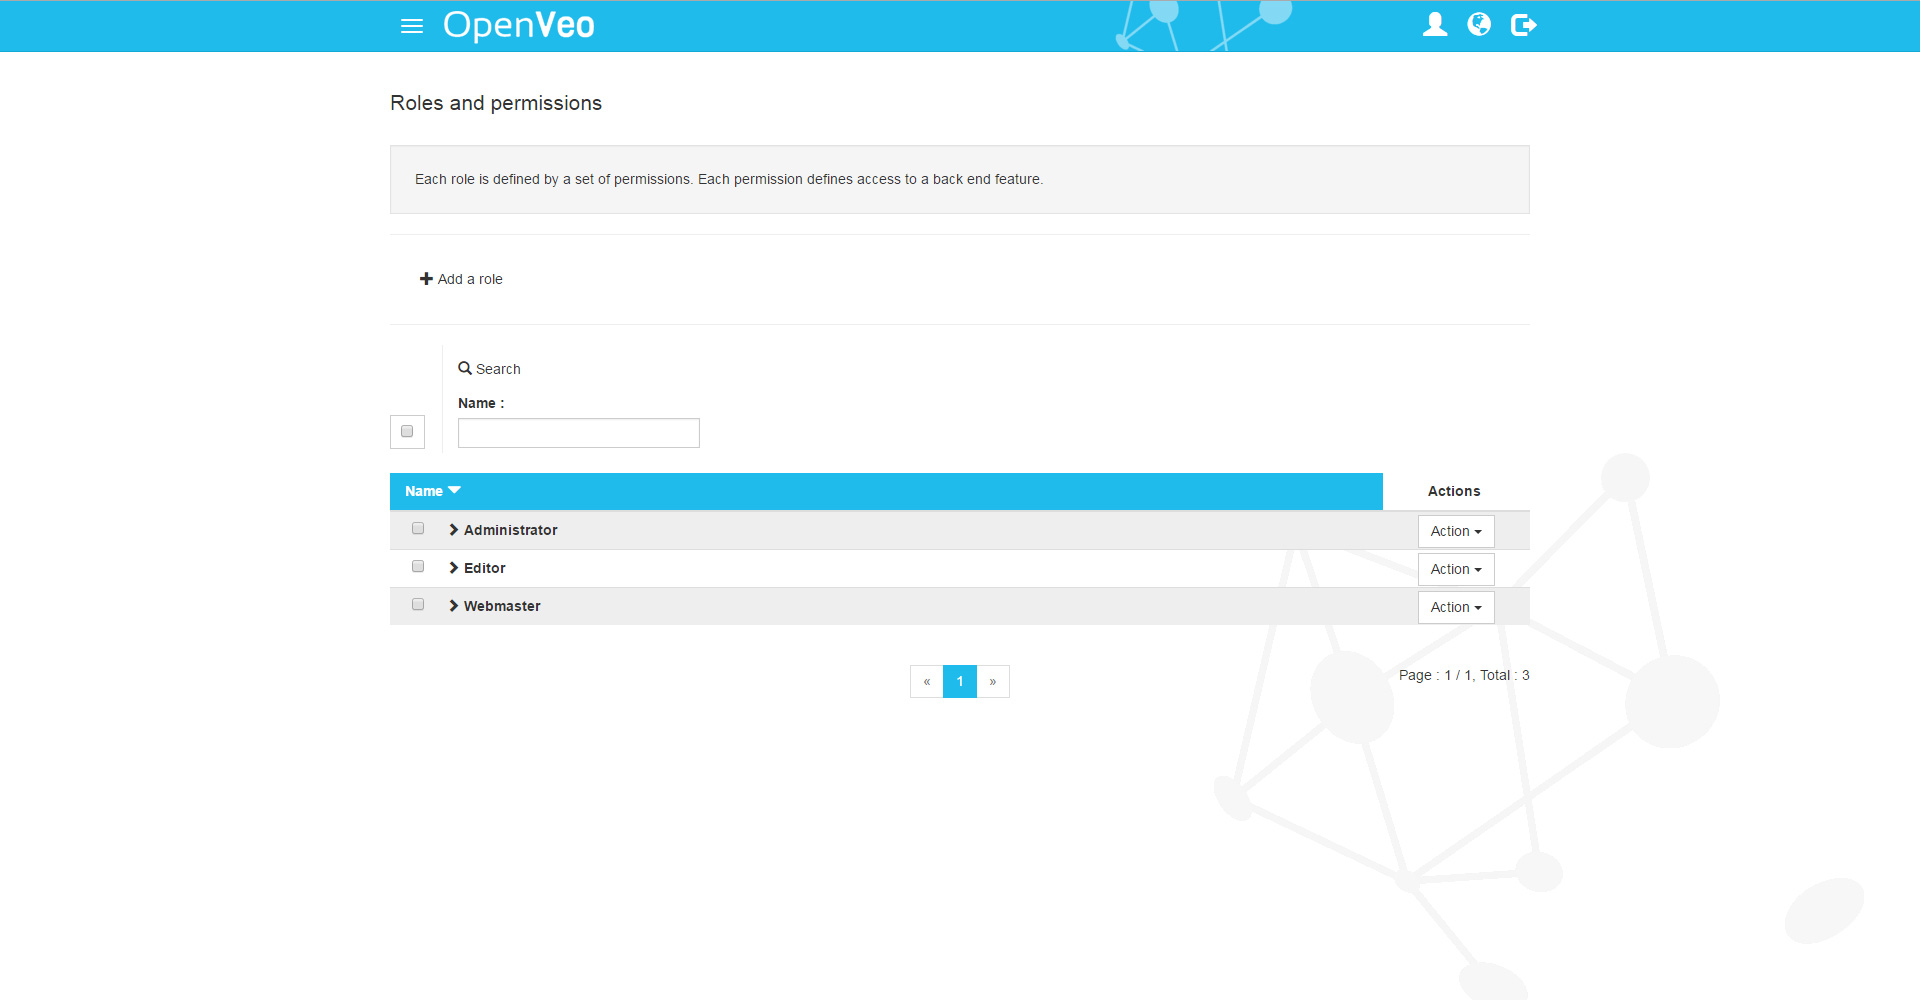
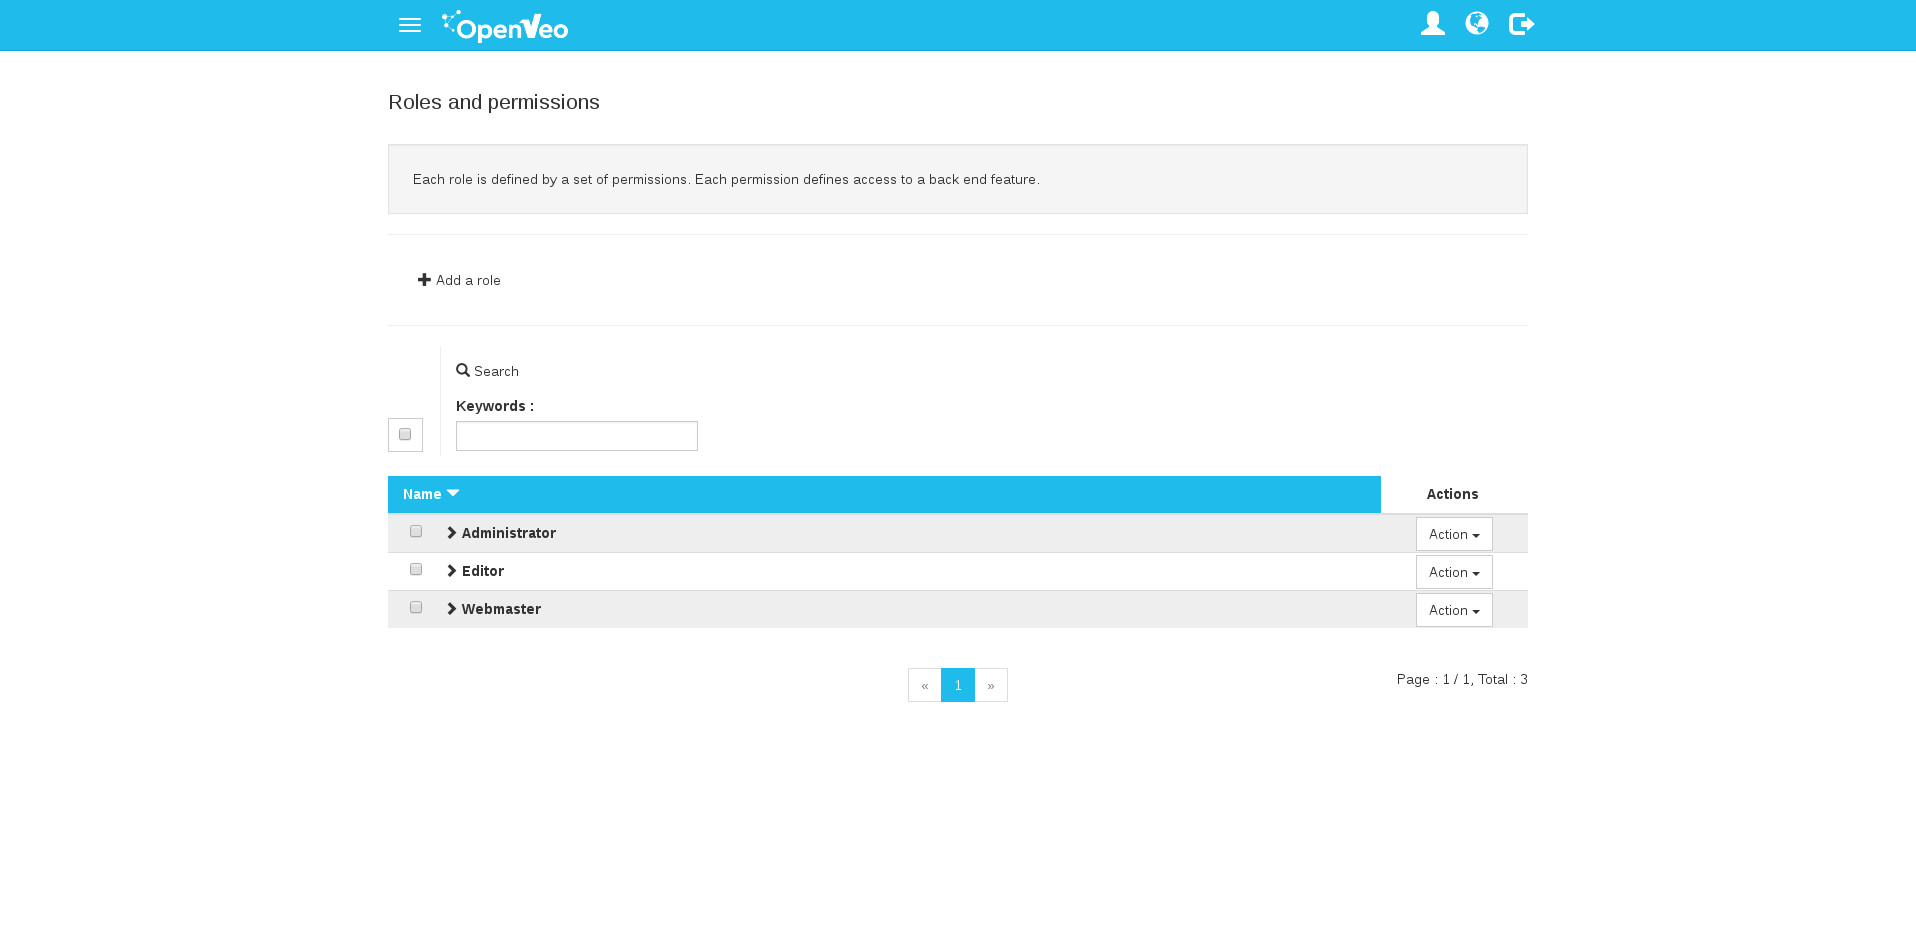
Integrate new OpenVeo logotype
OpenVeo administration interface was using the old
OpenVeo logotype. It now uses the new one.

diff --git a/CHANGELOG.md b/CHANGELOG.md
@@ -1,3 +1,9 @@
+# 7.1.0 / YYYY-MM-DD
+
+## NEW FEATURES
+
+- Replace OpenVeo logotype by the new one
+
 # 7.0.0 / 2018-10-26
 
 ## BREAKING CHANGES
